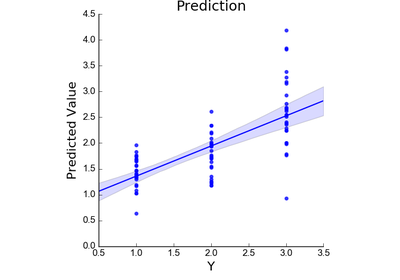
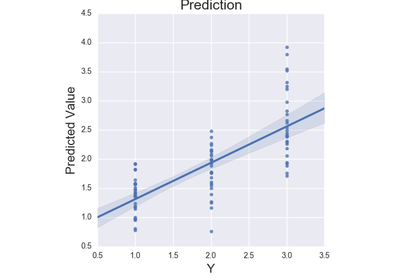
updated bug with pcr in predict

diff --git a/nltools/data.py b/nltools/data.py
@@ -638,7 +638,13 @@ class Brain_Data(object):
                 if predictor_settings['algorithm'] == 'svm' and predictor.probability:
                     output['prob_all'] = predictor.predict_proba(self.data)[:,1]
        
-        output['intercept'] = predictor.intercept_
+        # Intercept
+        if predictor_settings['algorithm'] == 'pcr':
+            output['intercept'] = predictor_settings['_regress'].intercept_
+        elif predictor_settings['algorithm'] == 'lassopcr':
+            output['intercept'] = predictor_settings['_lasso'].intercept_
+        else:
+            output['intercept'] = predictor.intercept_
 
         # Weight map
         output['weight_map'] = self.empty()
@@ -677,7 +683,13 @@ class Brain_Data(object):
                         output['dist_from_hyperplane_xval'][test] = predictor_cv.decision_function(self.data[test])
                         if predictor_settings['algorithm'] == 'svm' and predictor_cv.probability:
                             output['prob_xval'][test] = predictor_cv.predict_proba(self.data[test])[:,1]
-                output['intercept_xval'].append(predictor_cv.intercept_)
+                # Intercept
+                if predictor_settings['algorithm'] == 'pcr':
+                    output['intercept_xval'].append(predictor_settings['_regress'].intercept_)
+                elif predictor_settings['algorithm'] == 'lassopcr':
+                    output['intercept_xval'].append(predictor_settings['_lasso'].intercept_)
+                else:
+                    output['intercept_xval'].append(predictor_cv.intercept_)
                 output['cv_idx'].append((train,test))
 
                 # Weight map

diff --git a/docs/auto_examples/02_Analysis/plot_multivariate_prediction.py b/docs/auto_examples/02_Analysis/plot_multivariate_prediction.py
@@ -59,16 +59,15 @@ stats['yfit_xval']
 # cross-validation.
 
 svr_stats = data.predict(algorithm='svr', 
-                        cv_dict={'type': 'kfolds','n_folds': 5, 'n':len(data.Y)}, 
-                        plot=False, **{'kernel':"linear"})
+                        cv_dict={'type': 'kfolds','n_folds': 5}, 
+                        **{'kernel':"linear"})
 
-# pcr_stats = data.predict(algorithm='pcr', 
-#                         cv_dict={'type': 'kfolds','n_folds': 5, 'n':len(data.Y)}, 
-#                         plot=False)
+pcr_stats = data.predict(algorithm='pcr', 
+                        cv_dict={'type': 'kfolds','n_folds': 5})
 
 lasso_stats = data.predict(algorithm='lasso', 
-                        cv_dict={'type': 'kfolds','n_folds': 5, 'n':len(data.Y)}, 
-                        plot=False, **{'alpha':.1})
+                        cv_dict={'type': 'kfolds','n_folds': 5}, 
+                        **{'alpha':.1})
 
 #########################################################################
 # Cross-Validation Schemes

diff --git a/examples/02_Analysis/plot_multivariate_prediction.py b/examples/02_Analysis/plot_multivariate_prediction.py
@@ -59,16 +59,15 @@ stats['yfit_xval']
 # cross-validation.
 
 svr_stats = data.predict(algorithm='svr', 
-                        cv_dict={'type': 'kfolds','n_folds': 5, 'n':len(data.Y)}, 
-                        plot=False, **{'kernel':"linear"})
+                        cv_dict={'type': 'kfolds','n_folds': 5}, 
+                        **{'kernel':"linear"})
 
-# pcr_stats = data.predict(algorithm='pcr', 
-#                         cv_dict={'type': 'kfolds','n_folds': 5, 'n':len(data.Y)}, 
-#                         plot=False)
+pcr_stats = data.predict(algorithm='pcr', 
+                        cv_dict={'type': 'kfolds','n_folds': 5})
 
 lasso_stats = data.predict(algorithm='lasso', 
-                        cv_dict={'type': 'kfolds','n_folds': 5, 'n':len(data.Y)}, 
-                        plot=False, **{'alpha':.1})
+                        cv_dict={'type': 'kfolds','n_folds': 5}, 
+                        **{'alpha':.1})
 
 #########################################################################
 # Cross-Validation Schemes

diff --git a/docs/auto_examples/02_Analysis/plot_multivariate_prediction.rst b/docs/auto_examples/02_Analysis/plot_multivariate_prediction.rst
@@ -75,8 +75,8 @@ the cross-validated predictive accuracy.
 
     overall Root Mean Squared Error: 0.00
     overall Correlation: 1.00
-    overall CV Root Mean Squared Error: 0.61
-    overall CV Correlation: 0.69
+    overall CV Root Mean Squared Error: 0.56
+    overall CV Correlation: 0.74
 
 
 Display the available data in the output dictionary
@@ -141,19 +141,51 @@ cross-validation.
 
 
     svr_stats = data.predict(algorithm='svr', 
-                            cv_dict={'type': 'kfolds','n_folds': 5, 'n':len(data.Y)}, 
-                            plot=False, **{'kernel':"linear"})
+                            cv_dict={'type': 'kfolds','n_folds': 5}, 
+                            **{'kernel':"linear"})
 
-    # pcr_stats = data.predict(algorithm='pcr', 
-    #                         cv_dict={'type': 'kfolds','n_folds': 5, 'n':len(data.Y)}, 
-    #                         plot=False)
+    pcr_stats = data.predict(algorithm='pcr', 
+                            cv_dict={'type': 'kfolds','n_folds': 5})
 
     lasso_stats = data.predict(algorithm='lasso', 
-                            cv_dict={'type': 'kfolds','n_folds': 5, 'n':len(data.Y)}, 
-                            plot=False, **{'alpha':.1})
+                            cv_dict={'type': 'kfolds','n_folds': 5}, 
+                            **{'alpha':.1})
 
 
 
+
+.. rst-class:: sphx-glr-horizontal
+
+
+    *
+
+      .. image:: /auto_examples/02_Analysis/images/sphx_glr_plot_multivariate_prediction_004.png
+            :scale: 47
+
+    *
+
+      .. image:: /auto_examples/02_Analysis/images/sphx_glr_plot_multivariate_prediction_005.png
+            :scale: 47
+
+    *
+
+      .. image:: /auto_examples/02_Analysis/images/sphx_glr_plot_multivariate_prediction_006.png
+            :scale: 47
+
+    *
+
+      .. image:: /auto_examples/02_Analysis/images/sphx_glr_plot_multivariate_prediction_007.png
+            :scale: 47
+
+    *
+
+      .. image:: /auto_examples/02_Analysis/images/sphx_glr_plot_multivariate_prediction_008.png
+            :scale: 47
+
+    *
+
+      .. image:: /auto_examples/02_Analysis/images/sphx_glr_plot_multivariate_prediction_009.png
+            :scale: 47
 
 
 .. rst-class:: sphx-glr-script-out
@@ -163,6 +195,10 @@ cross-validation.
     overall Root Mean Squared Error: 0.10
     overall Correlation: 0.99
     overall CV Root Mean Squared Error: 0.86
+    overall CV Correlation: 0.59
+    overall Root Mean Squared Error: 0.00
+    overall Correlation: 1.00
+    overall CV Root Mean Squared Error: 0.91
     overall CV Correlation: 0.59
     overall Root Mean Squared Error: 0.69
     overall Correlation: 0.58
@@ -226,8 +262,8 @@ folds.  This can be done using the stratified k-folds method.
 
     overall Root Mean Squared Error: 0.00
     overall Correlation: 1.00
-    overall CV Root Mean Squared Error: 0.61
-    overall CV Correlation: 0.69
+    overall CV Root Mean Squared Error: 0.56
+    overall CV Correlation: 0.74
 
 
 Leave One Subject Out Cross-Validaiton (LOSO) is when k=n subjects.  
@@ -282,11 +318,11 @@ ridgeCV and lassoCV algorithms.
 
     overall Root Mean Squared Error: 0.00
     overall Correlation: 1.00
-    overall CV Root Mean Squared Error: 0.61
-    overall CV Correlation: 0.69
+    overall CV Root Mean Squared Error: 0.56
+    overall CV Correlation: 0.74
 
 
-**Total running time of the script:** ( 0 minutes  59.341 seconds)
+**Total running time of the script:** ( 1 minutes  18.013 seconds)
 
 
 
